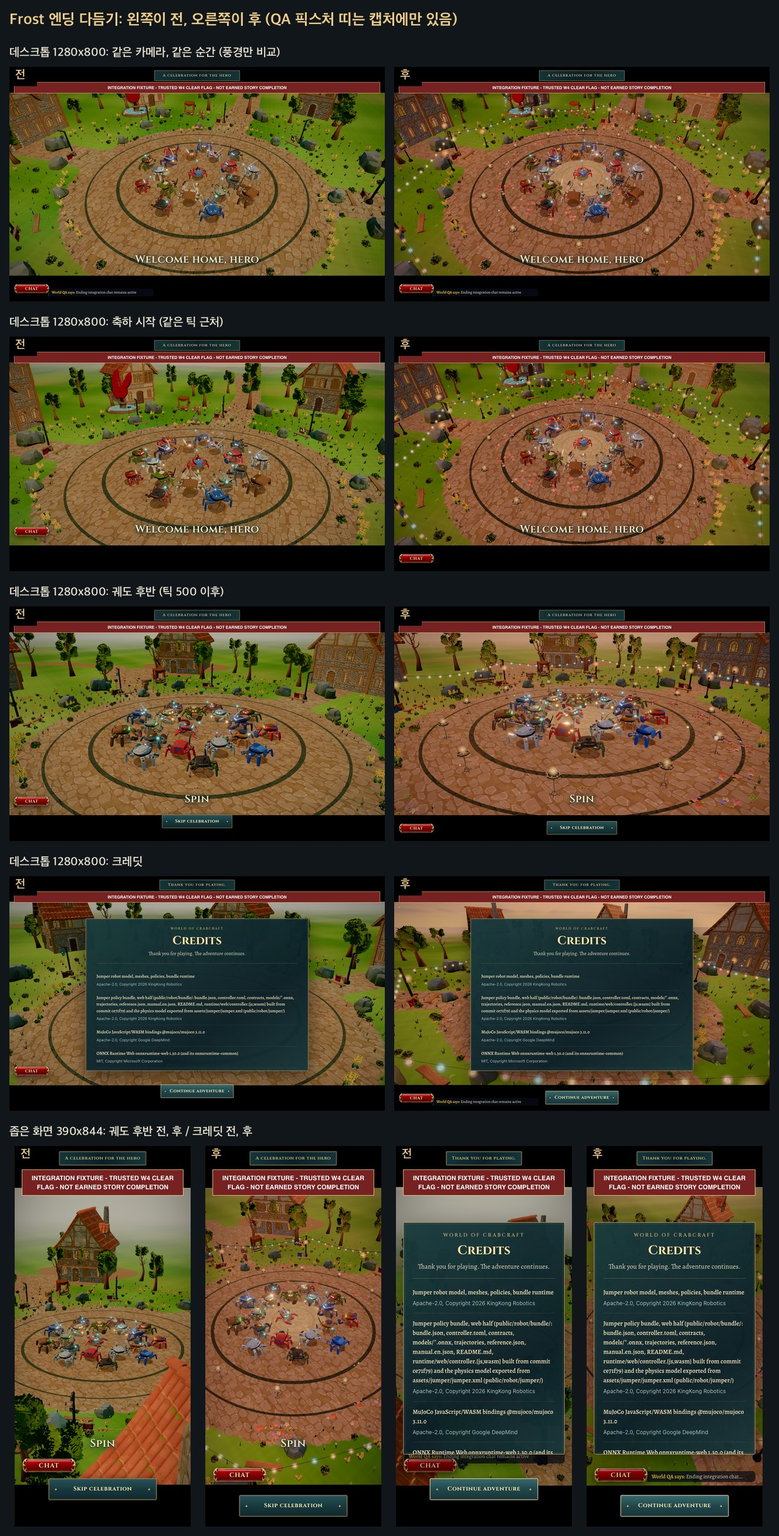
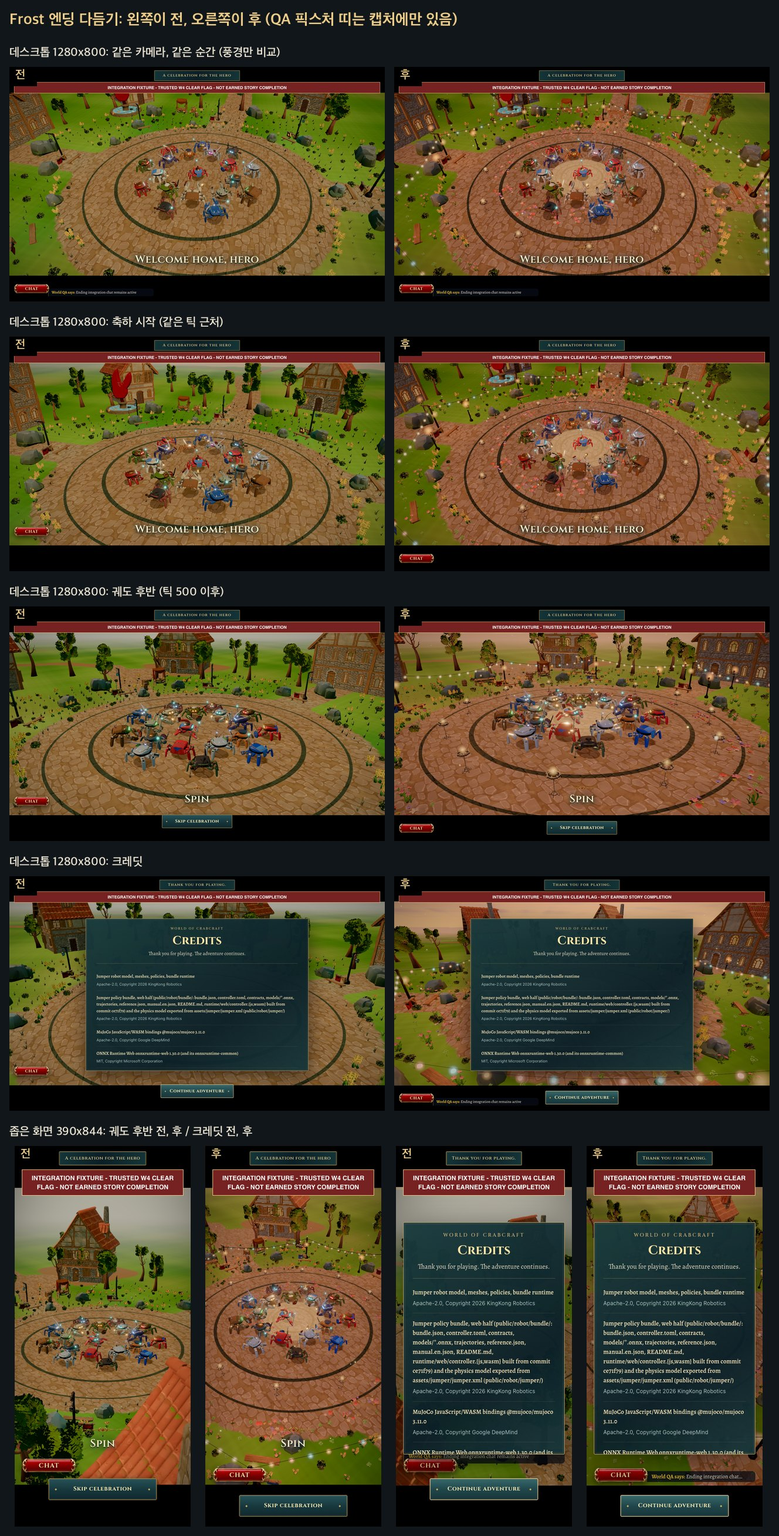
Ending courtyard: brighter hero light and lanterns, flowers and clover instead of dark grass tufts

diff --git a/src/multiplayer/endingStage.ts b/src/multiplayer/endingStage.ts
@@ -29,7 +29,7 @@ export async function createEndingStage():Promise<EndingStage> {
  let low=false;try{low=localStorage.getItem('cc.quality')==='low';}catch{}
  const height=(x:number,z:number)=>{const u=THREE.MathUtils.smoothstep(Math.hypot(x,z),13,25);return u*(.48+.28*Math.sin(x*.12)*Math.cos(z*.11)+.2*Math.sin((x+z)*.065));};
  const owned=new Set<THREE.Material>(),textures=new Set<THREE.Texture>();
- for(const kit of kits){const copies=new Map<THREE.Material,THREE.Material>();for(const [name,material]of kit.materials){const copy=material.clone();copies.set(material,copy);owned.add(copy);kit.materials.set(name,copy);if(copy instanceof THREE.MeshStandardMaterial){copy.roughness=Math.max(.65,copy.roughness);if(!/Metal/.test(name)){copy.metalness=0;copy.metalnessMap=null;}if(name==='MI_WindowGlass'){copy.color.set('#80582e');copy.emissive.set('#ffc06a');copy.emissiveIntensity=1.6;}if(name.startsWith('Leaves'))copy.side=THREE.DoubleSide;}}for(const piece of kit.pieces.values())for(const part of piece.parts)part.material=copies.get(part.material)!;}
+ for(const kit of kits){const copies=new Map<THREE.Material,THREE.Material>();for(const [name,material]of kit.materials){const copy=material.clone();copies.set(material,copy);owned.add(copy);kit.materials.set(name,copy);if(copy instanceof THREE.MeshStandardMaterial){copy.roughness=Math.max(.65,copy.roughness);if(!/Metal/.test(name)){copy.metalness=0;copy.metalnessMap=null;}if(name==='MI_WindowGlass'){copy.color.set('#80582e');copy.emissive.set('#ffc06a');copy.emissiveIntensity=2.2;}if(name.startsWith('Leaves'))copy.side=THREE.DoubleSide;}}for(const piece of kit.pieces.values())for(const part of piece.parts)part.material=copies.get(part.material)!;}
  const dispose=()=>{const geometries=new Set<THREE.BufferGeometry>();root.traverse(object=>{const drawn=object as THREE.Object3D&{geometry?:THREE.BufferGeometry;material?:THREE.Material|THREE.Material[]};if(drawn.geometry)geometries.add(drawn.geometry);if(drawn.material)for(const material of Array.isArray(drawn.material)?drawn.material:[drawn.material])owned.add(material);});for(const geo of geometries)geo.dispose();for(const material of owned)material.dispose();for(const texture of textures)texture.dispose();root.clear();};
  try {
   // Exact W1 splat/cobble/rock material, with private texture copies and a flat display court.
@@ -46,9 +46,9 @@ export async function createEndingStage():Promise<EndingStage> {
   band(8.8,9.15,inlay,-.045);band(12,12.2,inlay,-.045);band(2.25,2.5,brass,-.044);band(2.95,3.05,brass,-.044);
   // Warm light pool on the hero, soft enough to keep the cobble texture readable.
   const pool=radialSprite(128,0,[[0,1],[.45,.55],[1,0]]);textures.add(pool);
-  const poolMaterial=new THREE.MeshBasicMaterial({color:'#ffcf86',alphaMap:pool,transparent:true,opacity:.2,depthWrite:false,blending:THREE.AdditiveBlending});owned.add(poolMaterial);
+  const poolMaterial=new THREE.MeshBasicMaterial({color:'#ffcf86',alphaMap:pool,transparent:true,opacity:.26,depthWrite:false,blending:THREE.AdditiveBlending});owned.add(poolMaterial);
   const poolMesh=new THREE.Mesh(new THREE.PlaneGeometry(7.5,7.5).rotateX(-Math.PI/2),poolMaterial);poolMesh.position.y=-.035;poolMesh.renderOrder=1;root.add(poolMesh);
-  const spot=new THREE.SpotLight('#ffd9a0',low?70:90,32,THREE.MathUtils.degToRad(17),.65,1.6);spot.position.set(0,15,1.5);spot.target.position.set(0,0,0);root.add(spot,spot.target);
+  const spot=new THREE.SpotLight('#ffd9a0',low?110:130,32,THREE.MathUtils.degToRad(17),.6,1.6);spot.position.set(0,15,1.5);spot.target.position.set(0,0,0);root.add(spot,spot.target);
   const homes=new StaticBatch(village,'ending-village'),builder=new TownBuilder(village,homes,null,{});
   for(const lot of [
    {id:'ending-chapel',kind:'chapel' as const,x:0,z:-31,yaw:0,sx:4,sz:5,floors:2,style:0,h:-.1},
@@ -65,7 +65,7 @@ export async function createEndingStage():Promise<EndingStage> {
   const glows:GlowSpot[]=[],warm=new THREE.Color(ENDING_DUSK.lantern);
   const iron=new THREE.MeshStandardMaterial({color:'#2b2622',roughness:.5,metalness:.75});owned.add(iron);
   const postTop=3.3,posts:THREE.Vector3[]=[];
-  for(let i=0;i<8;i++){const angle=i*Math.PI/4,x=Math.sin(angle)*16,z=Math.cos(angle)*16;put(props,dressing,'Bench',x,z,angle+Math.PI,.85);put(props,dressing,i%2?'Banner_2':'Banner_1',x*1.08,z*1.08,angle,.95);const px=x*1.1,pz=z*1.1,py=-.08+height(px,pz);const pole=new THREE.Mesh(lathe([[.32,0],[.32,.25],[.16,.4],[.1,.5],[.09,3.3],[.14,3.4],[0,3.55]],8),iron);pole.position.set(px,py,pz);pole.castShadow=true;root.add(pole);posts.push(new THREE.Vector3(px,py+postTop,pz));put(props,dressing,'Lantern_Wall',px,pz,angle,.9,2.17);glows.push({pos:new THREE.Vector3(px*.985,py+2.45,pz*.985),color:warm,size:1.3,kind:'lamp'});const light=new THREE.PointLight(ENDING_DUSK.lantern,low?9:11,11,2);light.position.set(x,3,z);root.add(light);}
+  for(let i=0;i<8;i++){const angle=i*Math.PI/4,x=Math.sin(angle)*16,z=Math.cos(angle)*16;put(props,dressing,'Bench',x,z,angle+Math.PI,.85);put(props,dressing,i%2?'Banner_2':'Banner_1',x*1.08,z*1.08,angle,.95);const px=x*1.1,pz=z*1.1,py=-.08+height(px,pz);const pole=new THREE.Mesh(lathe([[.32,0],[.32,.25],[.16,.4],[.1,.5],[.09,3.3],[.14,3.4],[0,3.55]],8),iron);pole.position.set(px,py,pz);pole.castShadow=true;root.add(pole);posts.push(new THREE.Vector3(px,py+postTop,pz));put(props,dressing,'Lantern_Wall',px,pz,angle,.9,2.17);glows.push({pos:new THREE.Vector3(px*.985,py+2.45,pz*.985),color:warm,size:1.3,kind:'lamp'});const light=new THREE.PointLight(ENDING_DUSK.lantern,low?12:14,12,2);light.position.set(x,3,z);root.add(light);}
   // Festoon lights strung post to post around the court: thin dark cord, warm bulbs, a few rose and teal.
   const cord=new THREE.LineBasicMaterial({color:'#2a211c'});owned.add(cord);
   const bulbPalette=['#ffd690','#ffb45e','#ffd690','#ff9a7c','#ffd690','#9fe6d6'].map(c=>new THREE.Color(c));
@@ -88,7 +88,7 @@ export async function createEndingStage():Promise<EndingStage> {
   for(const [x,z] of [[-3.3,-15.5],[3.3,-15.5],[-3.3,-22],[3.3,-22]] as const){const y=height(x,z)-.08,stand=new THREE.Mesh(lathe([[.22,0],[.22,.18],[.11,.3],[.07,.38],[.06,1.5],[.12,1.58],[.12,1.64]],8),iron);stand.position.set(x,y,z);stand.castShadow=true;root.add(stand);put(props,dressing,'Torch_Metal',x,z,0,1,1.64+.3);glows.push({pos:new THREE.Vector3(x,y+1.64+.3+top('Torch_Metal')+.12,z),color:new THREE.Color('#ff9a3c'),size:1.5,kind:'fire'});}
   put(props,dressing,'WeaponStand',-18.5,-13.5,.9);put(props,dressing,'Shield_Wooden',-17.6,-12.4,.6);put(props,dressing,'Chest_Wood',-16.4,-14.6,.4);put(props,dressing,'Coin_Pile',-15.6,-13.6,0);put(props,dressing,'Bag',-16.9,-15.6,1.2);
   for(let i=0;i<42;i++){const a=i*2.399963,r=23+(i%4)*5;put(nature,garden,`CommonTree_${i%5+1}`,Math.sin(a)*r,Math.cos(a)*r,a,.7+(i%3)*.12);}
-  for(let i=0;i<820;i++){const a=i*2.399963,r=13.2+(i%37)*.34,x=Math.sin(a)*r,z=Math.cos(a)*r;if(Math.abs(x)<4&&z<0)continue;put(nature,garden,i%7===0?'Bush_Common_Flowers':i%5===0?'Flower_4_Group':i%3===0?'Clover_1':'Grass_Common_Short',x,z,a,.24+(i%4)*.06);}
+  for(let i=0;i<820;i++){const a=i*2.399963,r=13.2+(i%37)*.34,x=Math.sin(a)*r,z=Math.cos(a)*r;if(Math.abs(x)<4&&z<0)continue;put(nature,garden,i%7===0?'Bush_Common_Flowers':i%5===0?'Flower_4_Group':i%3===0?'Flower_3_Group':i%2===0?'Clover_2':'Clover_1',x,z,a,.24+(i%4)*.06);}
   for(let i=0;i<18;i++){const a=i*2.399963,r=14.5+i%3*3;put(nature,garden,`Rock_Medium_${i%3+1}`,Math.sin(a)*r,Math.cos(a)*r,a,.5+i%3*.2);}
   // Petals thrown by the crowd: dense near the dancers, thinning towards the benches.
   for(let i=0,count=low?220:360;i<count;i++){const a=i*2.399963+Math.sin(i*12.9898)*.4,r=2.7+Math.pow(((i*.618034)%1),.8)*12.2,x=Math.sin(a)*r,z=Math.cos(a)*r;put(nature,garden,`Petal_${i%5+1}`,x,z,a*3.1,.42+(i%4)*.07,-.03);}
